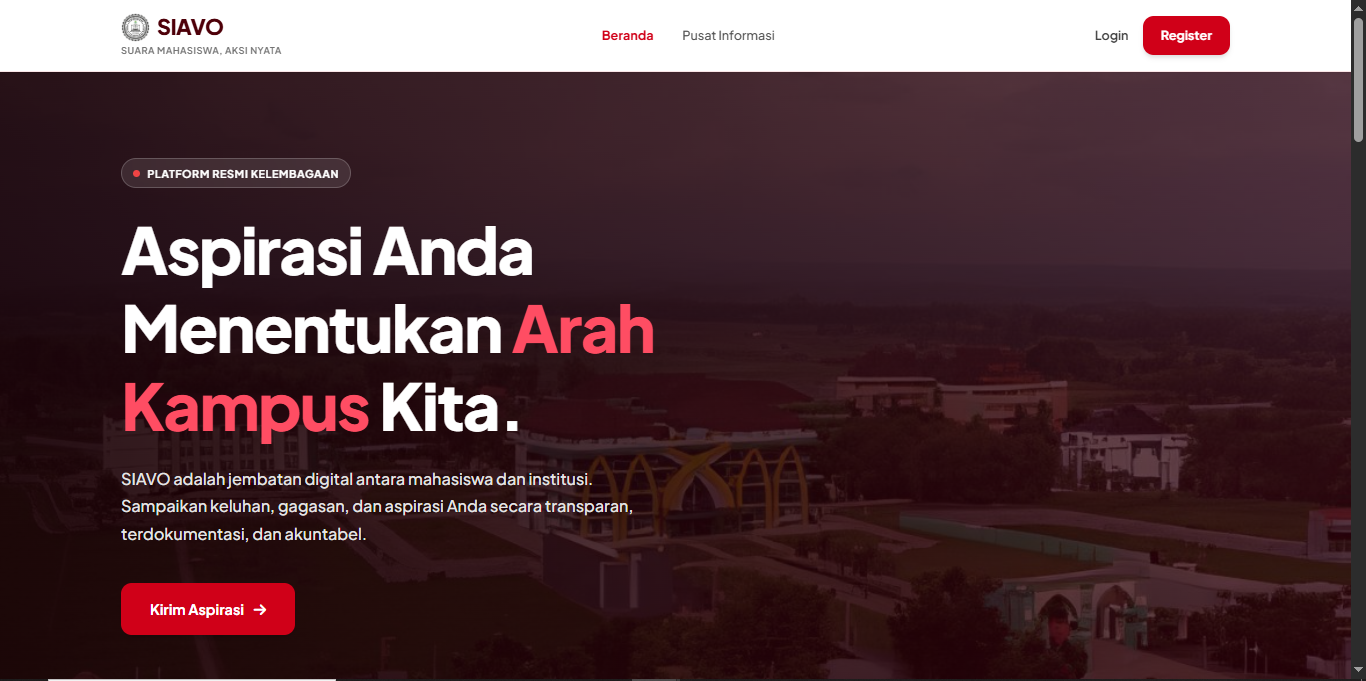
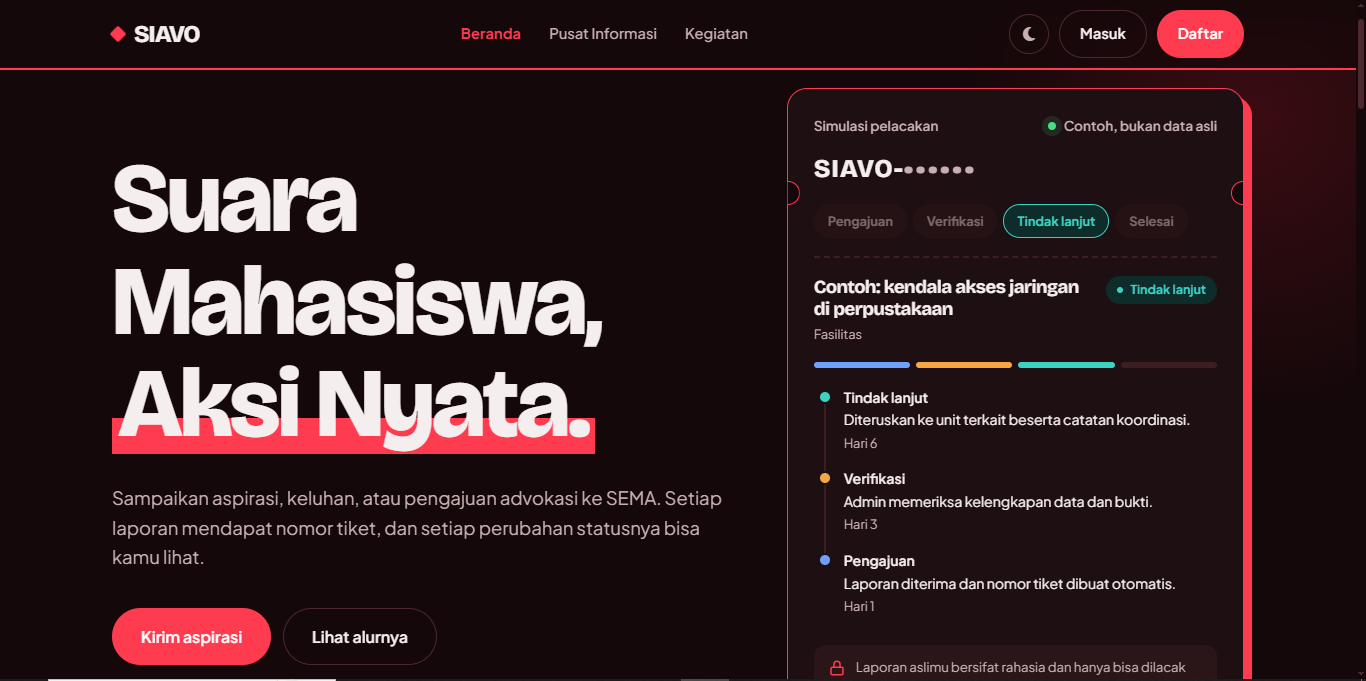
nambah project

diff --git a/lib/projects.js b/lib/projects.js
@@ -7,7 +7,7 @@ export const PROJECTS = [
     tech: ["PHP", "MySQL", "HTML", "CSS", "JavaScript"],
     awards: ["Best Capstone Paper", "Best Capstone System"],
     image: "/images/HMPSKPI26WEB/image.png",
-    link: "hmjkpi.page.gd",
+    link: "https://hmjkpi.page.gd",
     linkText: "View Project →",
   },
   {
@@ -18,20 +18,20 @@ export const PROJECTS = [
     tech: ["PHP", "MySQL", "HTML", "CSS", "JavaScript"],
     awards: [],
     image: "/images/SIAVO/image.png",
-    link: "https://github.com/chardoxx-3/ResQR-Disaster-Relief-Management-System",
+    link: "https://github.com/ibrhmibn/my-portfolio.git",
     linkText: "View Project →",
   },
-  // {
-  //   num: "03",
-  //   title: "iTrak - Terminal Management System",
-  //   category: "CodeIgniter 4",
-  //   desc: "RFID-based terminal management system for monitoring driver attendance, managing routes and queues, processing payments, and providing real-time operational analytics.",
-  //   tech: ["CodeIgniter 4", "PHP", "MySQL", "HTML", "CSS", "JavaScript"],
-  //   awards: [],
-  //   image: "/images/iTrak/Screenshot%202026-08-14%20175457.png",
-  //   link: "https://github.com/chardoxx-3/iTrak-Terminal-Management-System",
-  //   linkText: "View Project →",
-  // },
+  {
+    num: "03",
+    title: "Queuescan - Sistem Antrian Berbasis QR Code",
+    category: "CodeIgniter 4",
+    desc: "QR code-based queue management system for streamlined service delivery and real-time monitoring.",
+    tech: ["CodeIgniter 4", "PHP", "MySQL", "HTML", "CSS", "JavaScript"],
+    awards: [],
+    image: "/images/queuescan/image.png",
+    link: "https://github.com/ibrhmibn/queuescan.git",
+    linkText: "View Project →",
+  },
 ]
 //   {
 //     num: "04",

diff --git a/IDEA.md b/IDEA.md
@@ -1,0 +1,1 @@
+portfolio gua
